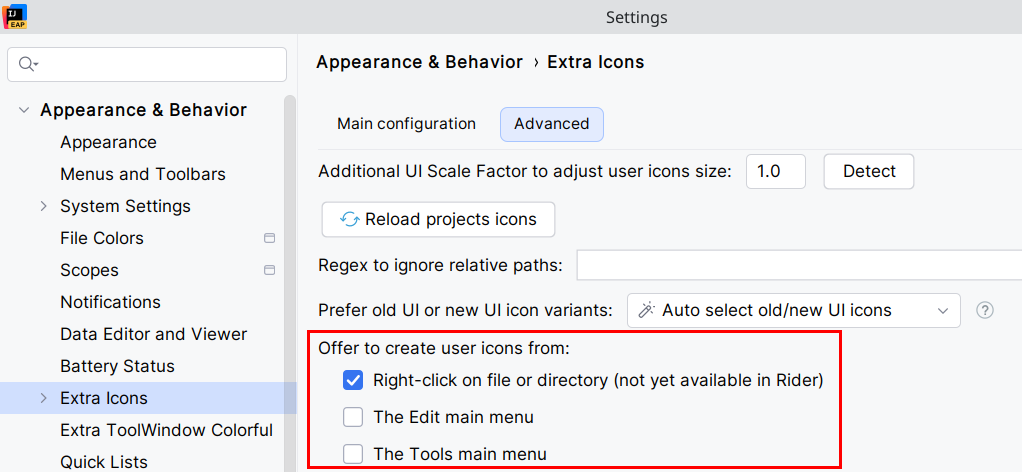
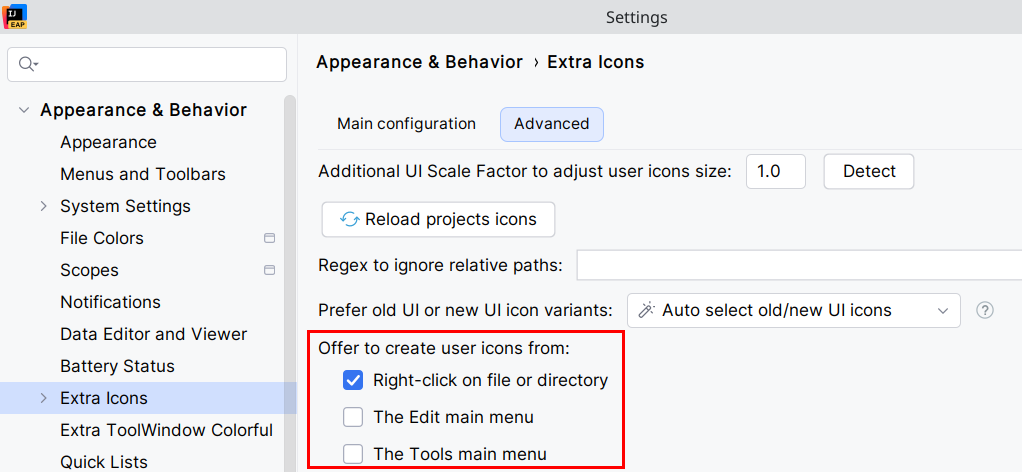
update doc for Extra Tools Pack 2026.1.5

Changed region(s): [[0.6067, 0.7712, 0.819, 0.8305], [0.6067, 0.9788, 0.819, 1.0], [0.6067, 0.6822, 0.819, 0.7119]]

diff --git a/manual/topics/extra-icons/Extra-Icons-User-Icons.md b/manual/topics/extra-icons/Extra-Icons-User-Icons.md
@@ -136,9 +136,6 @@ You can also optionally invoke this action from the **Edit** and **Tools** main 
 
 ![](../../images/extra-icons/register-user-icon-from-context-settings.png){ width="720" }
 
-> In **Rider** IDE, the icon registration action is currently not available from <ui-path>right-click</ui-path>. Instead, it's only available from the **Edit** and **Tools** main menu actions. This is due to the fact that Rider doesn't provide the regular Project view, but Solution and File System views instead, which work differently, are not documented, and are closed-source.
-{style="warning" title="Rider support"}
-
 ## Search for Existing JetBrains Icons
 
 Visit [IntelliJ Platform Icons](https://intellij-icons.jetbrains.design/) and find most of the icons used by JetBrains IDEs. Click an icon, then download it as a zip file. This file will contain the icon as a PNG or SVG file, with an optional second file for dark themes (its name ends with `_dark.svg`).
